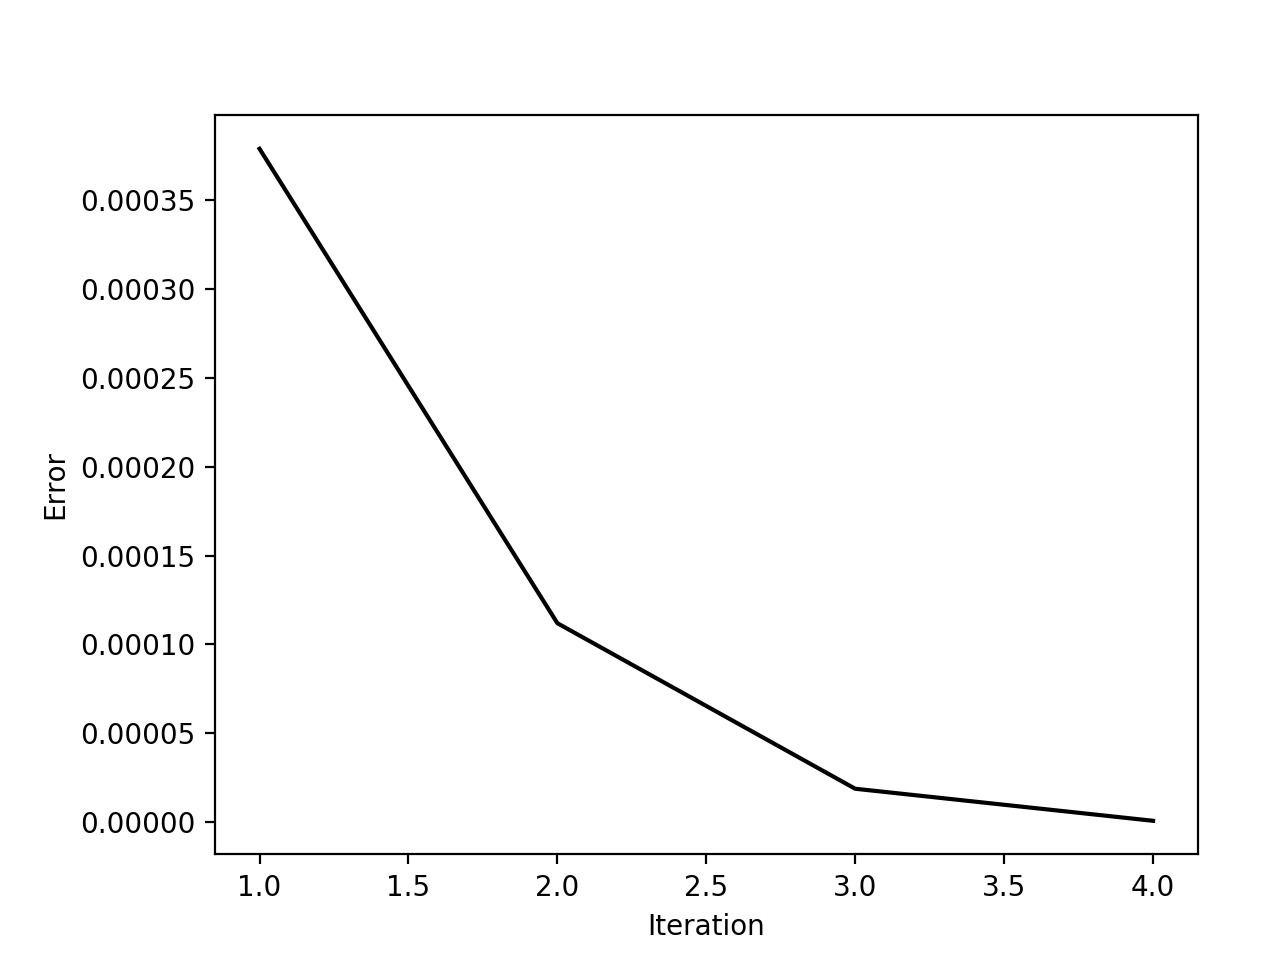
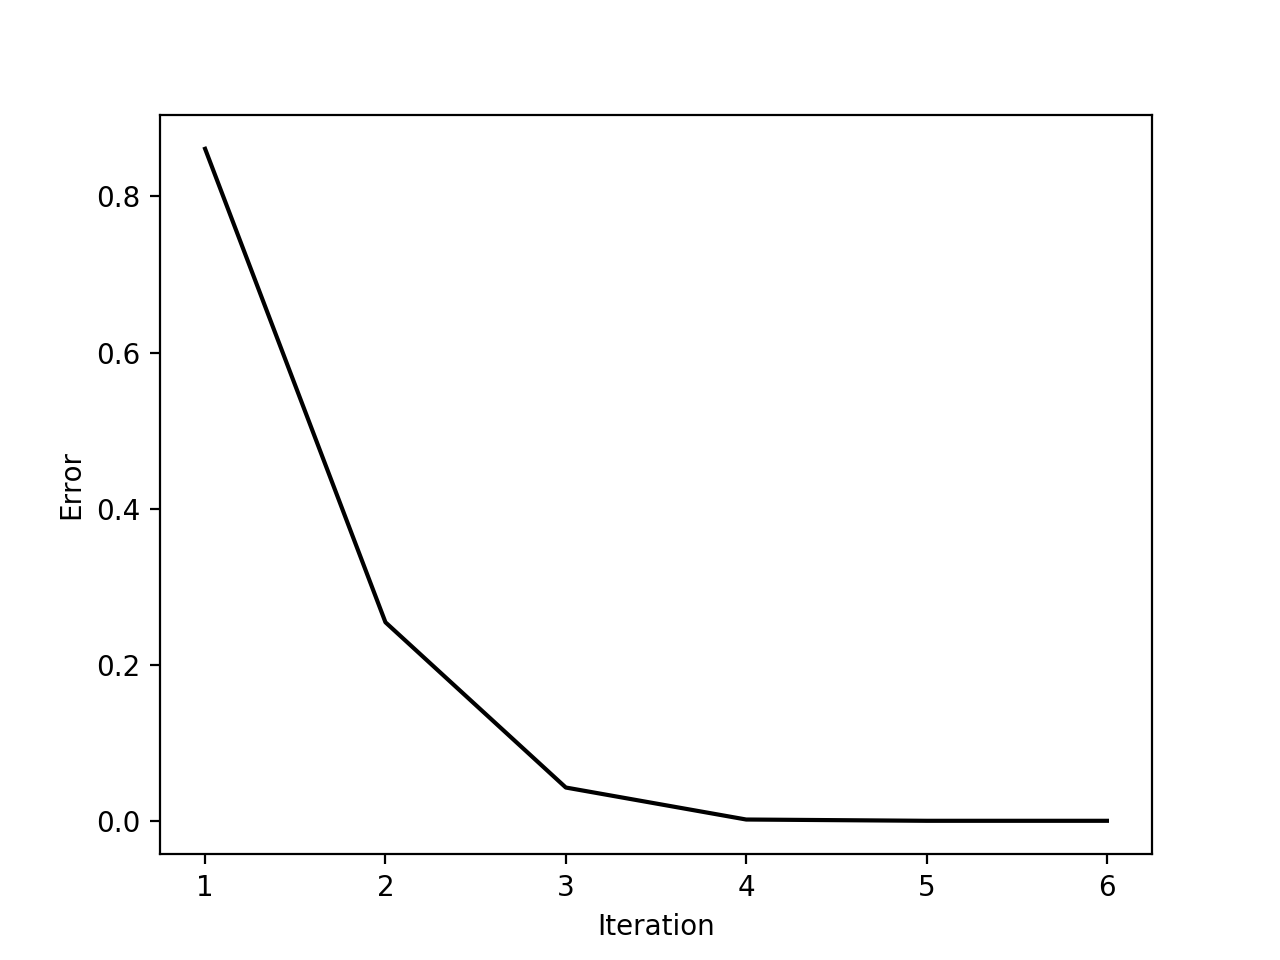
Fix Q3

diff --git a/as3/non_linear.py b/as3/non_linear.py
@@ -22,7 +22,7 @@ def vector_newton_raphson(f, jac, x, tol=1e-6, max_iter=50, on_iteration=None):
         if on_iteration is not None:
             on_iteration(i + 1, x, f(x))
 
-        if sum(f(x).map(abs).flatten()) <= tol:
+        if sum(f(x).map(abs).flatten()) / sum(f(x0).map(abs).flatten()) <= tol:
             break
 
     return x
@@ -130,7 +130,8 @@ if __name__ == '__main__':
     def on_iteration(i, v, f_v):
         print("iteration:", i)
         v. print(name="V")
-        error = sum(f_v.map(abs).flatten())
+        v0 = Matrix2D.zeros(v.rows, v.cols)
+        error = sum(f(v).map(abs).flatten()) / sum(f(v0).map(abs).flatten())
         print("error: {:+E}".format(error))
         errors.append(error)
 

diff --git a/as3/report.md b/as3/report.md
@@ -155,33 +155,44 @@ $$
 where $J(\textbf{x})$ is the Jacobian of $f(\textbf{x})$. This was iterated
 until:
 
-$
-|f(\textbf{x})| < 10^{-6}.
-$
+$$
+\left|\frac{f(\textbf{x})}{f(\textbf{0})}\right| < 10^{-6}.
+$$
 
-After 4 iterations, the algorithm converged to $v_A = 0.1982$ V and
-$v_B = 0.0905$ V. @fig:newton-error shows that the convergence is indeed
+After 6 iterations, the algorithm converged to $v_A = 0.1981$ V and
+$v_B = 0.0906$ V. @fig:newton-error shows that the convergence is indeed
 quadratic.
 
 ```
 iteration: 1
-V = | 0.2183 |
-    | 0.0728 |
-error: +3.788879E-04
+V = |     0.2183 |
+    |     0.0728 |
+error: +8.611088E-01
+
 iteration: 2
-V = | 0.2057 |
-    | 0.0816 |
-error: +1.119243E-04
+V = |     0.2057 |
+    |     0.0816 |
+error: +2.543734E-01
+
 iteration: 3
-V = | 0.2001 |
-    | 0.0892 |
-error: +1.876091E-05
+V = |     0.2001 |
+    |     0.0892 |
+error: +4.263844E-02
+
 iteration: 4
-V = | 0.1982 |
-    | 0.0905 |
-error: +7.217547E-07
-V = | 0.1982 |
-    | 0.0905 |
+V = |     0.1982 |
+    |     0.0905 |
+error: +1.640352E-03
+
+iteration: 5
+V = |     0.1981 |
+    |     0.0906 |
+error: +2.562020E-06
+
+iteration: 6
+V = |     0.1981 |
+    |     0.0906 |
+error: +6.326535E-12
 ```
 
 ![Error vs iteration of multi-variate Newton-Raphson.](assets/newton-raphson-error.png){#fig:newton-error width=75%}
